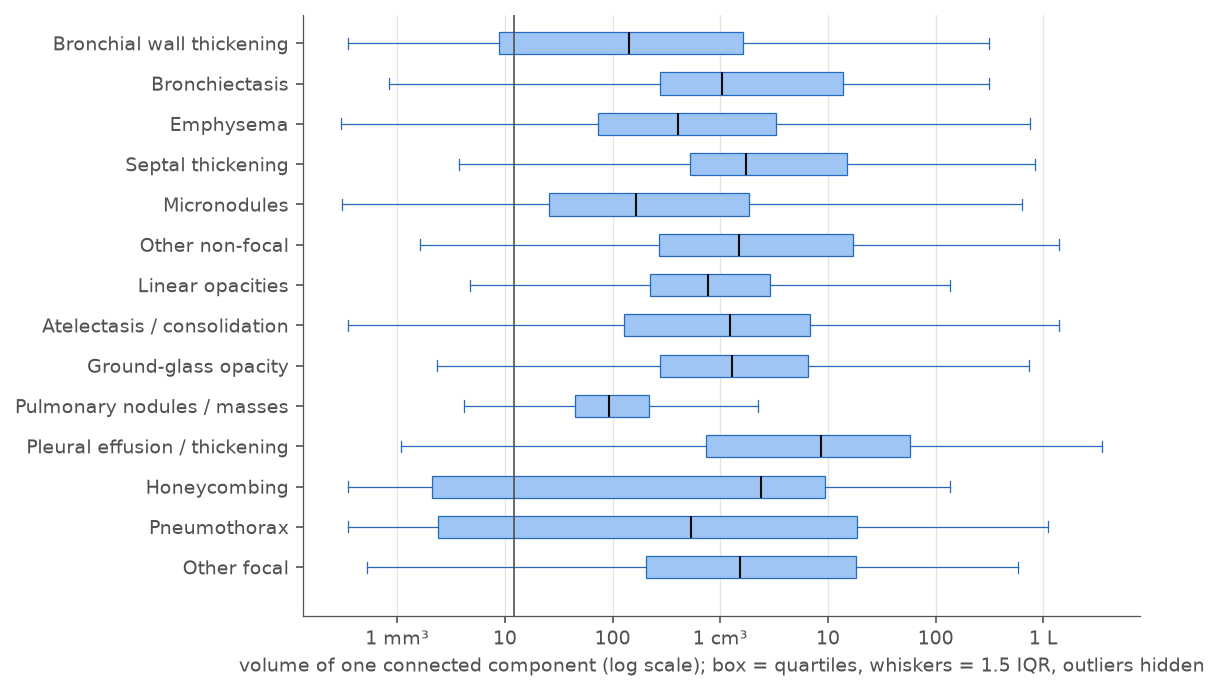
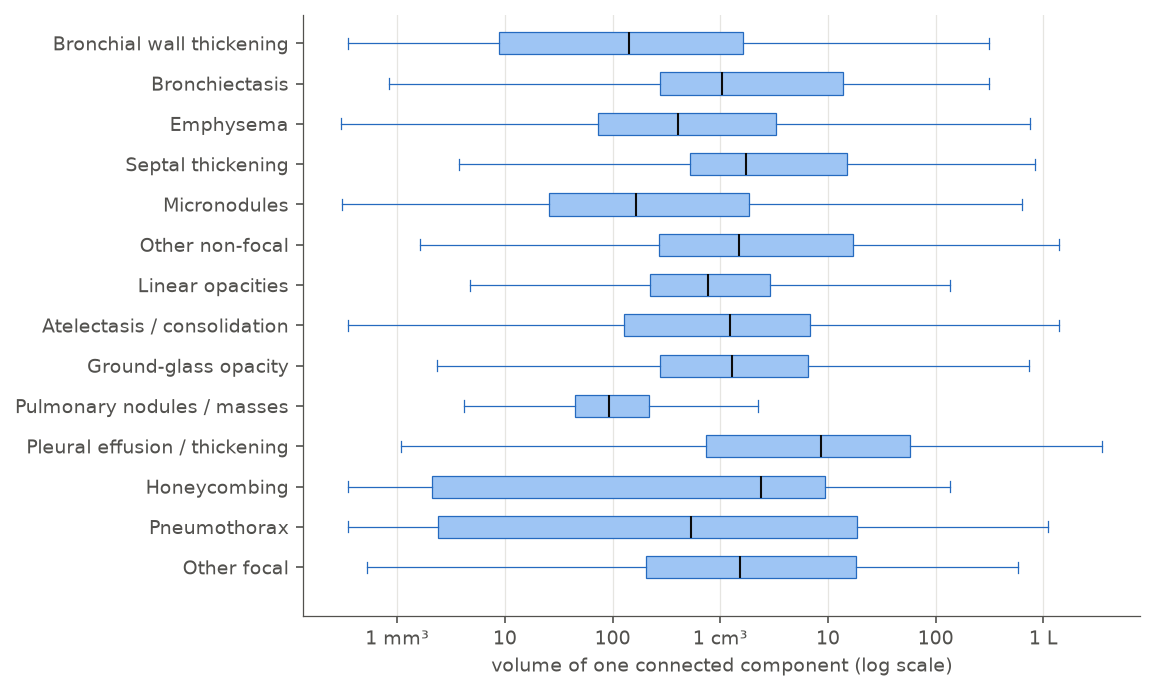
Size figure: the 27-voxel line removed and the axis label cut to its quantity; the report's caption carries both (report rule 10, Phase 1 audit)
The 27-voxel floor line was dropped on 2026-09-21 when the report's size figure lost the
candidate-stage line; the axis label still explained the boxes and whiskers inside the image,
which the report's caption already says (Phase 1 audit of 2026-09-24, finding P1-13).
Re-rendered through the batch queue on ih-condor (job 98814) and copied into the report.

diff --git a/profiling/analyze.py b/profiling/analyze.py
@@ -176,11 +176,9 @@ def sizes(t: dict) -> None:
     bp = ax.boxplot(data, vert=False, widths=0.55, showfliers=False, patch_artist=True, medianprops=dict(color=INK, linewidth=1),
                     boxprops=dict(facecolor=BLUE_RAMP[1], edgecolor=BLUE_RAMP[4], linewidth=0.6), whiskerprops=dict(color=BLUE_RAMP[4], linewidth=0.6), capprops=dict(color=BLUE_RAMP[4], linewidth=0.6))
     ax.set_yticks(np.arange(1, len(CATS) + 1)); ax.set_yticklabels([CAT_LABEL[k] for k in CATS]); ax.invert_yaxis(); ax.grid(axis="y", visible=False)
-    vox = float(t["scans"]["voxel_mm3"].median()); floor = np.log10(27 * vox)
-    ax.axvline(floor, color=INK2, linewidth=0.8)                                       # the 27-voxel floor; the caption names it (report rule 10)
     ax.set_ylim(len(CATS) + 1.2, 0.3)
     ticks = [0, 1, 2, 3, 4, 5, 6]; ax.set_xticks(ticks); ax.set_xticklabels(["1 mm³", "10", "100", "1 cm³", "10", "100", "1 L"])
-    ax.set_xlabel("volume of one connected component (log scale); box = quartiles, whiskers = 1.5 IQR, outliers hidden")
+    ax.set_xlabel("volume of one connected component (log scale)")   # what the boxes and whiskers are is said in the report's caption (rule 10)
     save(fig, "fig_sizes")
 
 
